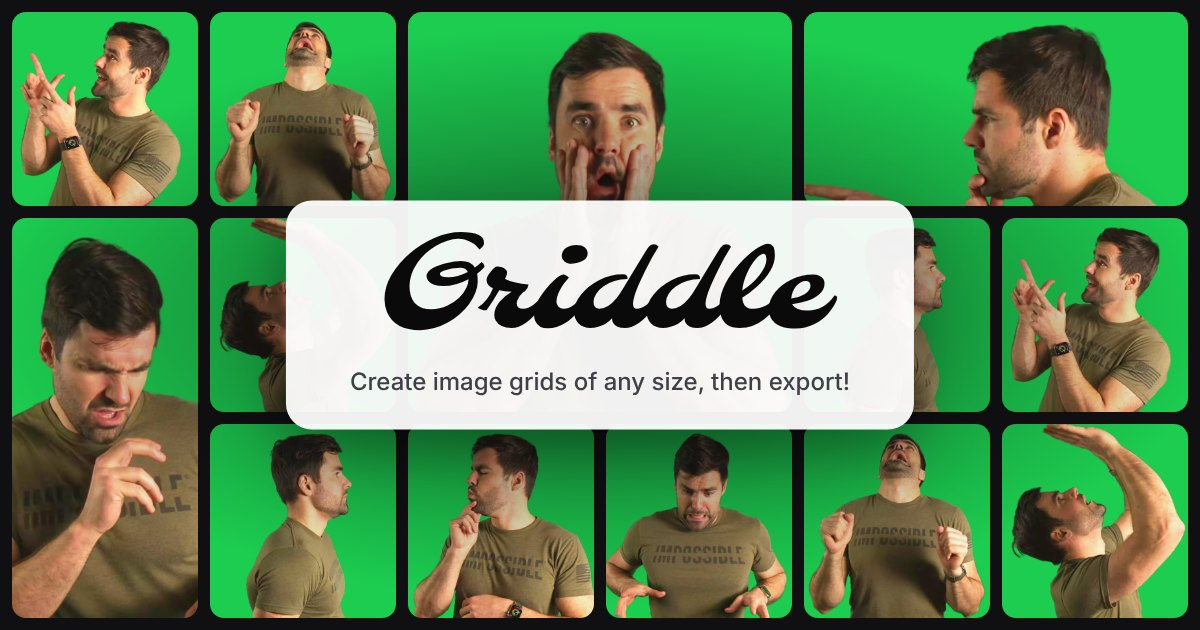
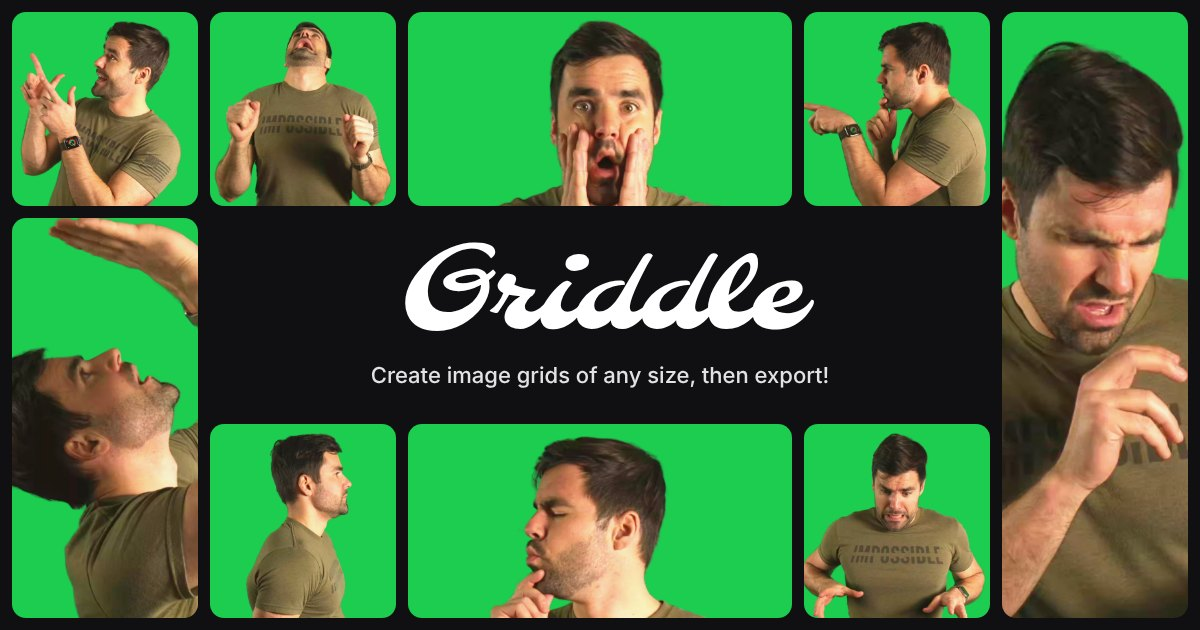
Use a white wordmark set into the bento on the social card
Claude-Session: https://claude.ai/code/session_013fYmkeP9PfRa7X9WjS7JY2

diff --git a/index.html b/index.html
@@ -22,7 +22,7 @@
     <meta property="og:image" content="https://griddle.thomasjfrank.com/og-image.jpg" />
     <meta property="og:image:width" content="1200" />
     <meta property="og:image:height" content="630" />
-    <meta property="og:image:alt" content="A bento grid of photos with the Griddle wordmark on top" />
+    <meta property="og:image:alt" content="A bento grid of photos with the Griddle wordmark in its center" />
 
     <meta name="twitter:card" content="summary_large_image" />
     <meta name="twitter:title" content="Griddle | Build Image Grids without the Fuss" />
